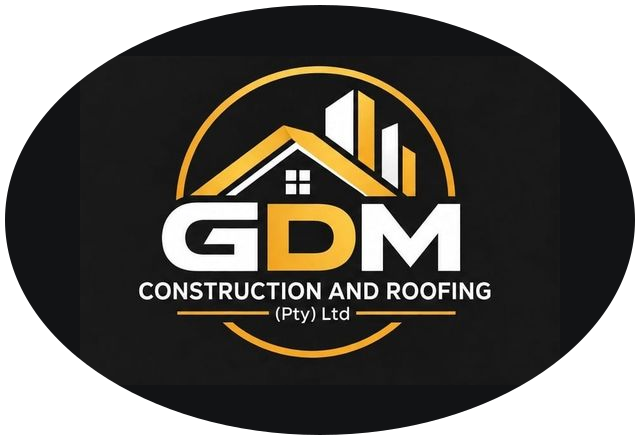
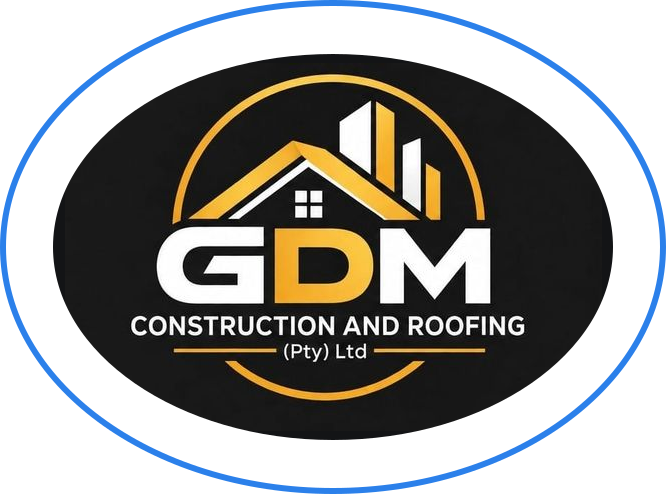
fix(mobile): match exact oval badge shape with blue outer ring and white border

diff --git a/app/globals.css b/app/globals.css
@@ -722,18 +722,18 @@ body.scrolled .nav-inner {
     display: flex;
     justify-content: center;
     align-items: center;
-    margin: 4px auto 14px;
+    margin: 4px auto 16px;
     width: 100%;
   }
 
   .hero-badge-logo-img {
     display: block;
-    width: min(215px, 58vw);
-    max-width: 225px;
+    width: min(265px, 75vw);
+    max-width: 275px;
     height: auto;
-    aspect-ratio: 640 / 440;
+    aspect-ratio: 666 / 494;
     object-fit: contain;
-    filter: drop-shadow(0 8px 24px rgba(0, 0, 0, 0.7));
+    filter: drop-shadow(0 10px 24px rgba(0, 0, 0, 0.65));
   }
 
   /* Mobile Eyebrow Trust Badge */

diff --git a/components/Hero.tsx b/components/Hero.tsx
@@ -86,8 +86,8 @@ export const Hero: React.FC<HeroProps> = ({ onOpenBooking, onOpenEstimate }) => 
               src="/images/gdm-badge-mobile-hq.png"
               alt="GDM Construction &amp; Roofing (Pty) Ltd Logo"
               className="hero-badge-logo-img"
-              width={220}
-              height={151}
+              width={268}
+              height={199}
             />
           </div>
         </div>
